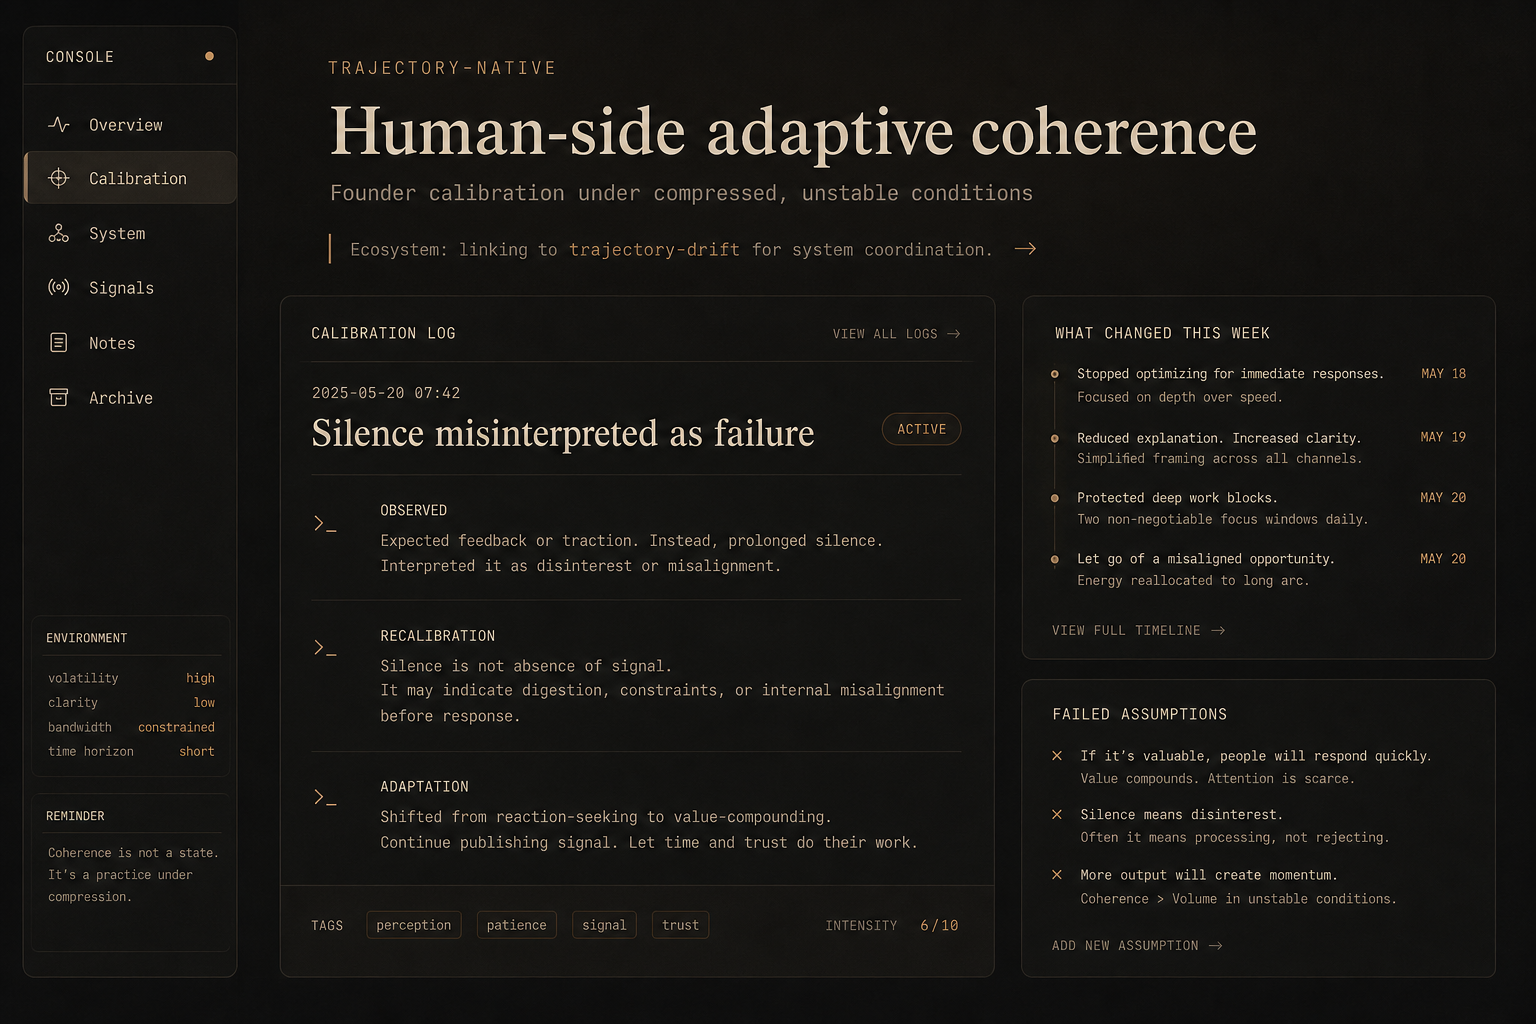
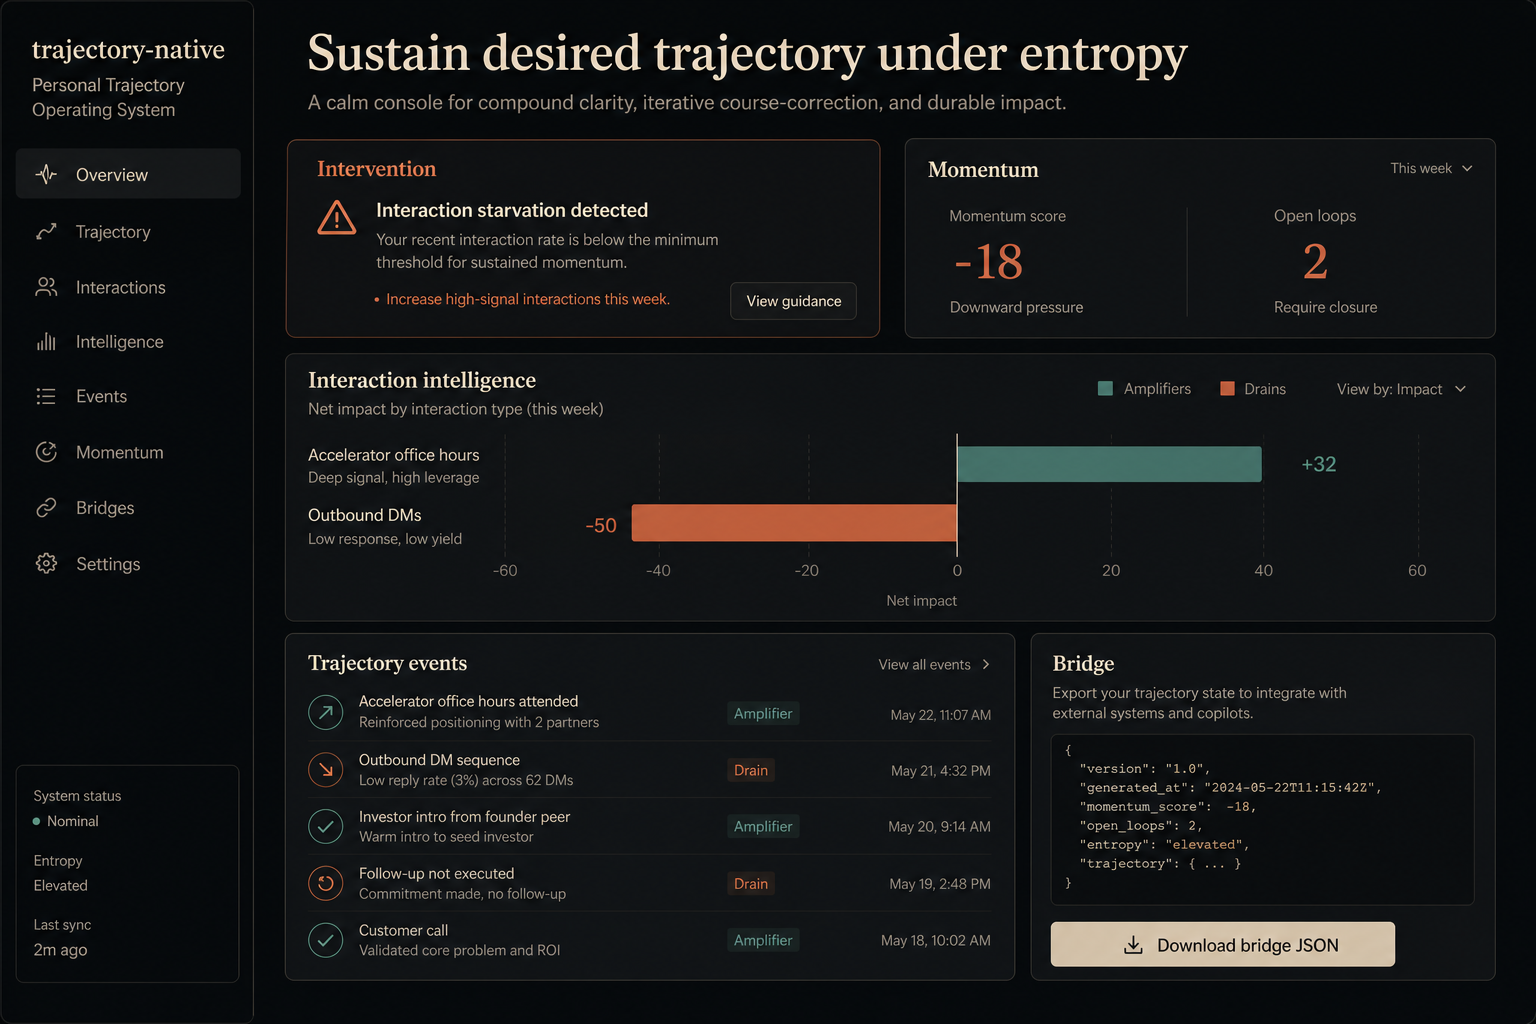
Release screenshots and X post for v0.6 trajectory infrastructure.

diff --git a/docs/launch/x-post-v06-infrastructure.md b/docs/launch/x-post-v06-infrastructure.md
@@ -1,0 +1,26 @@
+# X post — trajectory-native v0.6
+
+**Attach image:** `assets/launch/x-trajectory-infrastructure.png`
+
+---
+
+## Post
+
+```
+Personal trajectory OS — v0.6 direction shipped.
+
+Not reflection. Intervention.
+Not notes. Trajectory events.
+
+· momentum engine
+· interaction intelligence (amplifiers vs drains)
+· calendar / comms / tools ingestion
+· bridge export → trajectory-drift
+
+Silence is still a calibration signal.
+Momentum is what actually moves you.
+
+https://github.com/higuseonhye/trajectory-native
+
+#BuildInPublic
+```